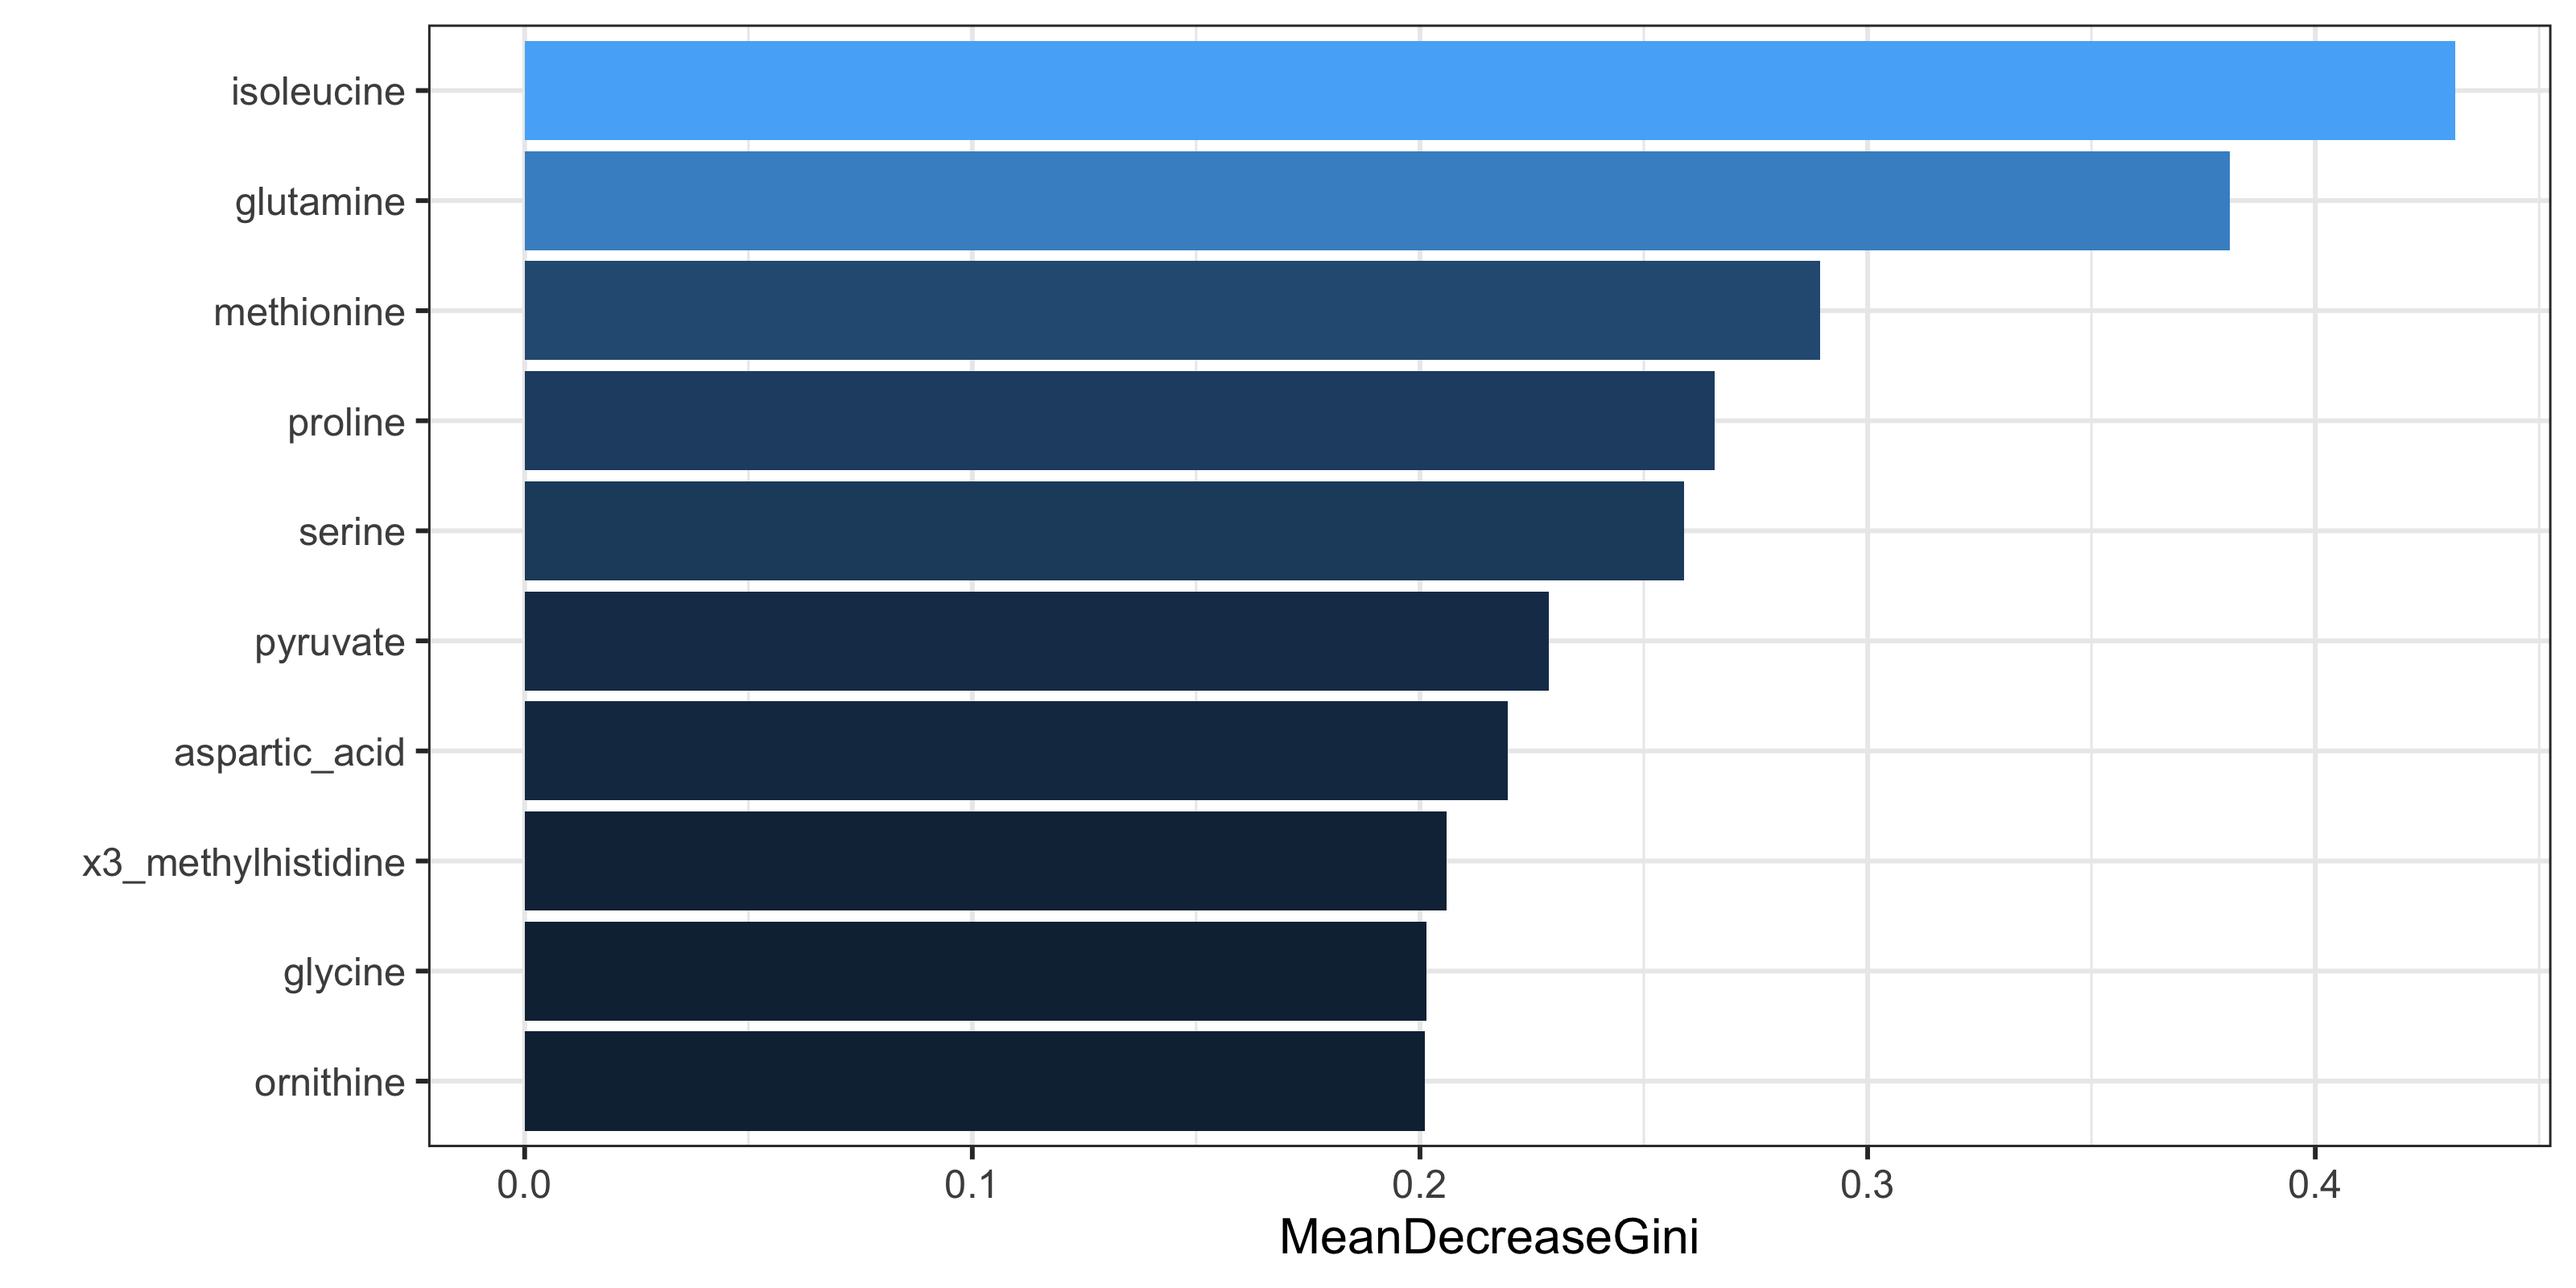
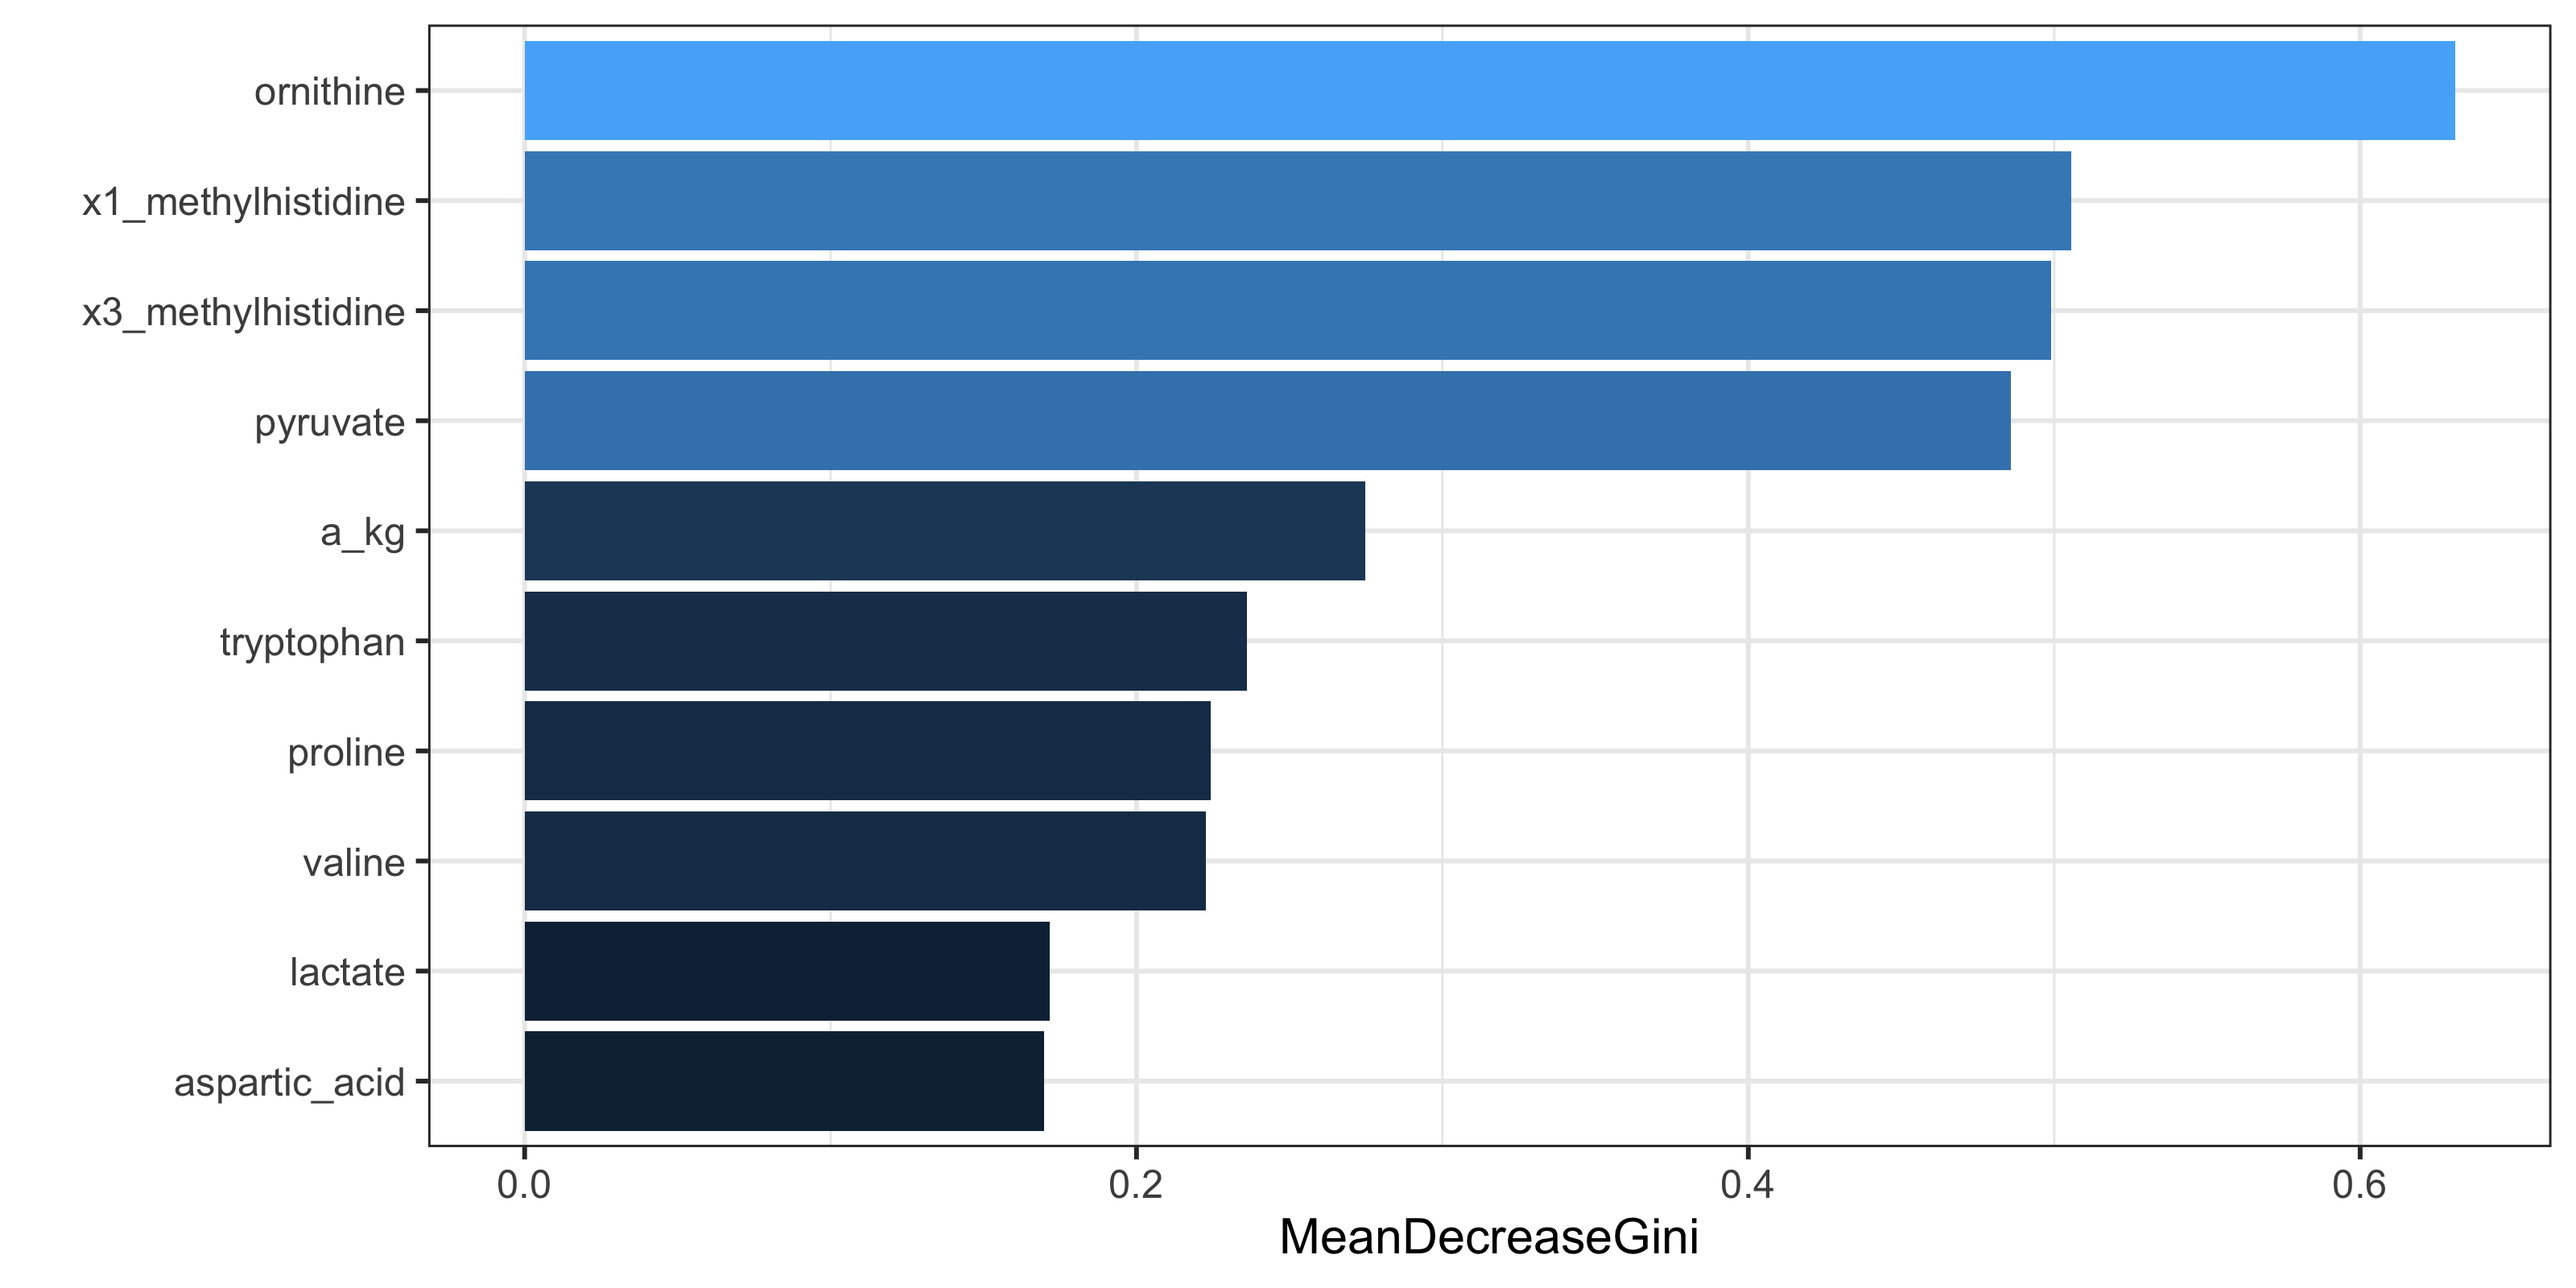
Built site for POMA: 0.99.0@f8623e4

diff --git a/articles/POMA-demo.html b/articles/POMA-demo.html
@@ -92,7 +92,7 @@
       <h1 data-toc-skip>POMA Workflow Overview</h1>
                         <h4 class="author">Pol Castellano-Escuder</h4>
             
-            <h4 class="date">2020-04-27</h4>
+            <h4 class="date">2020-05-06</h4>
       
       <small class="dont-index">Source: <a href="https://github.com/pcastellanoescuder/POMA/blob/master/vignettes/POMA-demo.Rmd"><code>vignettes/POMA-demo.Rmd</code></a></small>
       <div class="hidden name"><code>POMA-demo.Rmd</code></div>
@@ -152,8 +152,8 @@
 <span class="co">## experimentData: use 'experimentData(object)'</span>
 <span class="co">## Annotation:  </span>
 <span class="co">## - - - Processing information - - -</span>
-<span class="co">## Imputed (knn): Mon Apr 27 17:11:17 2020 </span>
-<span class="co">##  MSnbase version: 2.12.0</span></pre></body></html></div>
+<span class="co">## Imputed (knn): Wed May  6 17:01:42 2020 </span>
+<span class="co">##  MSnbase version: 2.14.0</span></pre></body></html></div>
 <p><em>Note that the object has been updated with imputation information.</em></p>
 </div>
 <div id="normalization" class="section level2">
@@ -174,9 +174,9 @@
 <span class="co">## experimentData: use 'experimentData(object)'</span>
 <span class="co">## Annotation:  </span>
 <span class="co">## - - - Processing information - - -</span>
-<span class="co">## Imputed (knn): Mon Apr 27 17:11:17 2020 </span>
-<span class="co">## Normalised (log_pareto): Mon Apr 27 17:11:17 2020 </span>
-<span class="co">##  MSnbase version: 2.12.0</span></pre></body></html></div>
+<span class="co">## Imputed (knn): Wed May  6 17:01:42 2020 </span>
+<span class="co">## Normalised (log_pareto): Wed May  6 17:01:43 2020 </span>
+<span class="co">##  MSnbase version: 2.14.0</span></pre></body></html></div>
 <p><em>Note that the object has been updated with normalization information.</em></p>
 <div id="normalization-effect" class="section level3">
 <h3 class="hasAnchor">
@@ -292,7 +292,7 @@
 <p>Confusion matrix of the random forest model:</p>
 <div class="sourceCode" id="cb14"><html><body><pre class="r"><span class="no">rf_res</span>$<span class="no">confusion_matrix</span>
 <span class="co">##          Controls DMD class.error</span>
-<span class="co">## Controls        0   3      1.0000</span>
+<span class="co">## Controls        1   2      0.6667</span>
 <span class="co">## DMD             1  15      0.0625</span></pre></body></html></div>
 <p>Top 10 best predictors:</p>
 <div class="sourceCode" id="cb15"><html><body><pre class="r"><span class="no">rf_res</span>$<span class="no">gini_plot</span></pre></body></html></div>

diff --git a/reference/PomaMultivariate.html b/reference/PomaMultivariate.html
@@ -146,6 +146,7 @@
   <span class='kw'>components</span> <span class='kw'>=</span> <span class='fl'>5</span>,
   <span class='kw'>center</span> <span class='kw'>=</span> <span class='fl'>FALSE</span>,
   <span class='kw'>scale</span> <span class='kw'>=</span> <span class='fl'>FALSE</span>,
+  <span class='kw'>load_length</span> <span class='kw'>=</span> <span class='fl'>1</span>,
   <span class='kw'>ellipse</span> <span class='kw'>=</span> <span class='fl'>TRUE</span>,
   <span class='kw'>validation</span> <span class='kw'>=</span> <span class='st'>"Mfold"</span>,
   <span class='kw'>folds</span> <span class='kw'>=</span> <span class='fl'>5</span>,
@@ -175,6 +176,10 @@
     <tr>
       <th>scale</th>
       <td><p>Logical that indicates whether the variables should be scaled to have unit variance before the analysis takes place. Default is FALSE.</p></td>
+    </tr>
+    <tr>
+      <th>load_length</th>
+      <td><p>Numeric between 1 and 2. Define the length of biplot loadings. Default is 1.</p></td>
     </tr>
     <tr>
       <th>ellipse</th>

diff --git a/articles/POMA-normalization.html b/articles/POMA-normalization.html
@@ -92,7 +92,7 @@
       <h1 data-toc-skip>Normalization</h1>
                         <h4 class="author">Pol Castellano-Escuder</h4>
             
-            <h4 class="date">2020-04-27</h4>
+            <h4 class="date">2020-05-06</h4>
       
       <small class="dont-index">Source: <a href="https://github.com/pcastellanoescuder/POMA/blob/master/vignettes/POMA-normalization.Rmd"><code>vignettes/POMA-normalization.Rmd</code></a></small>
       <div class="hidden name"><code>POMA-normalization.Rmd</code></div>
@@ -138,7 +138,7 @@
 <span class="co">## experimentData: use 'experimentData(object)'</span>
 <span class="co">## Annotation:  </span>
 <span class="co">## - - - Processing information - - -</span>
-<span class="co">##  MSnbase version: 2.12.0</span></pre></body></html></div>
+<span class="co">##  MSnbase version: 2.14.0</span></pre></body></html></div>
 </div>
 <div id="normalization-in-poma" class="section level1">
 <h1 class="hasAnchor">
